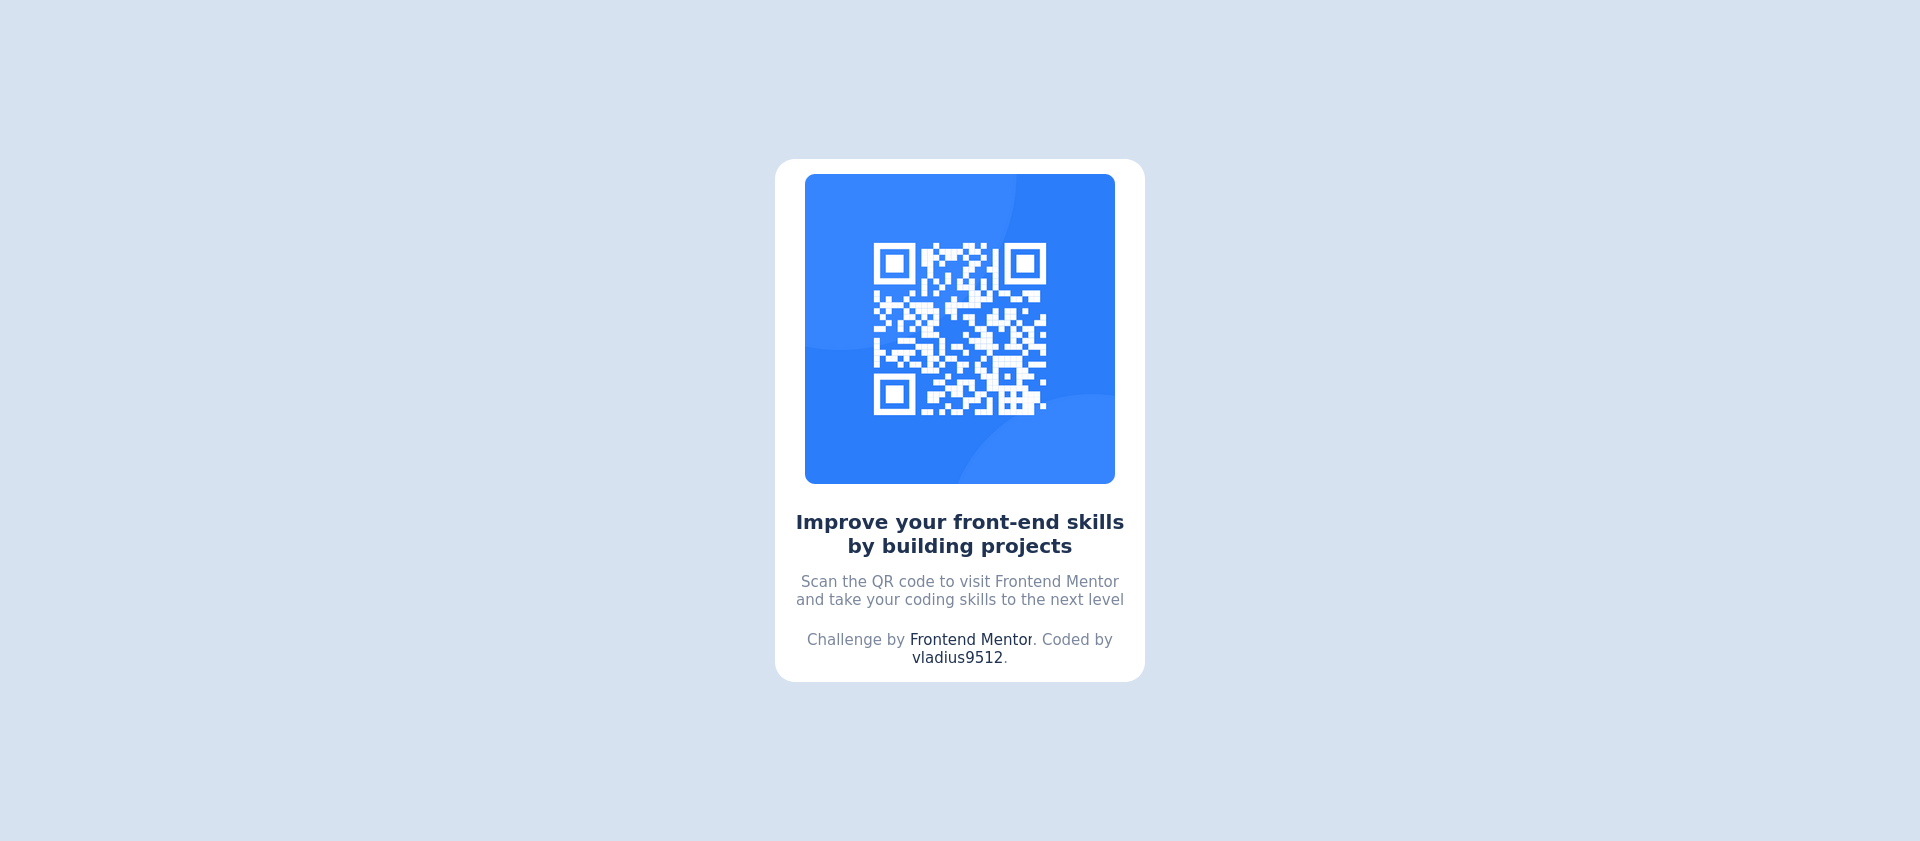
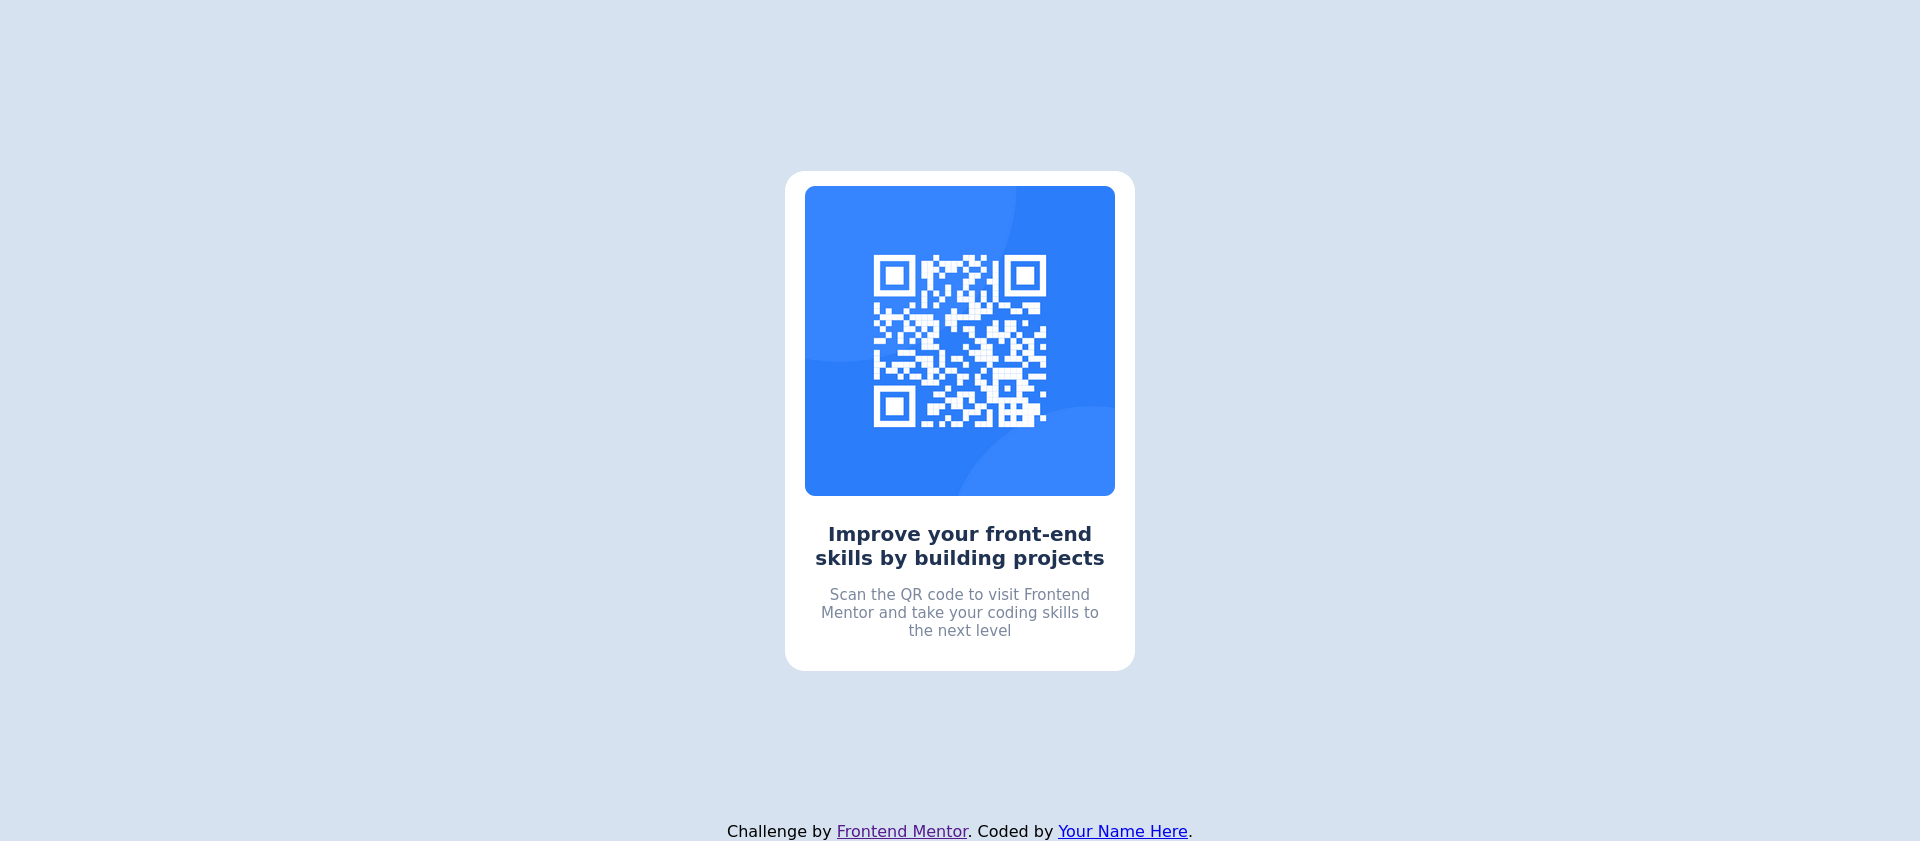
Made some improvements on the QR code based on the feedback. Replaced a div with the main tag so its more accesible. Same with the p element so it has a heading1 now. Also put the footer outside the main and outside the challenge design

diff --git a/QR challenge/QR.html b/QR challenge/QR.html
@@ -7,19 +7,19 @@
         <title>Frontend Mentor | QR code component</title>
     </head>
     <body>
-        <div class="container">
+        <main class="container">
             <div class="image">
                 <img src="./images/image-qr-code.png" alt="QR-code" />
             </div>
             <div class="text-wrapper">
-                <p class="heavy-font">
-                    Improve your front-end skills by building projects
-                </p>
+                <h1>Improve your front-end skills by building projects</h1>
                 <p>
                     Scan the QR code to visit Frontend Mentor and take your
                     coding skills to the next level
                 </p>
             </div>
+        </main>
+        <footer>
             <div class="attribution">
                 Challenge by
                 <a
@@ -28,6 +28,6 @@
                     >Frontend Mentor</a
                 >. Coded by <a href="#">Your Name Here</a>.
             </div>
-        </div>
+        </footer>
     </body>
 </html>

diff --git a/QR challenge/style.css b/QR challenge/style.css
@@ -11,7 +11,7 @@ body {
     flex-direction: column;
     justify-content: center;
     align-items: center;
-    height: 100vh;
+    min-height: 100vh;
 }
 
 .container {
@@ -23,18 +23,25 @@ body {
     color: hsl(220, 15%, 55%);
     background-color: hsl(0, 0%, 100%);
     border-radius: 20px;
-    margin: 0 15px;
-    max-width: 340px;
+    max-width: 320px;
 }
 
-.heavy-font {
+footer {
+    position: absolute;
+    bottom: 0;
+}
+
+h1 {
     font-weight: 700;
-    margin-bottom: 15px;
     color: hsl(218, 44%, 22%);
     font-size: 20px;
+    text-align: center;
+    margin: 0 0.9rem;
 }
 p {
     font-weight: 400;
+    text-align: center;
+    margin: 1rem 0.9rem 1rem 0.9rem;
 }
 img {
     max-width: 310px;
